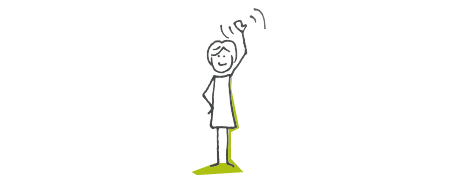
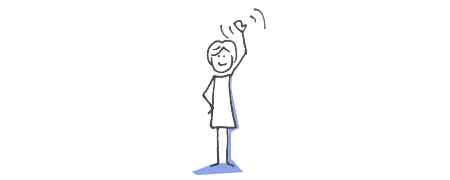
redesign according to project page

Changed region(s): [[0.4044, 0.4444, 0.56, 0.9722]]

diff --git a/src/style.css b/src/style.css
@@ -112,7 +112,7 @@ input, select {
 
 
 body {
-  background-color: #fcfcfc;
+  background-color: rgb(255, 255, 255)
 }
 
 header {
@@ -224,7 +224,7 @@ header nav ul li a {
   font-size: 18px;
   font-weight: 600;
   line-height: 30px;
-  color: #acc111;
+  color: #718de0;
   text-align: center;
   display: block;
   padding-top: 20px;
@@ -271,7 +271,7 @@ header nav ul li a {
   font-family:'Roboto';
   font-size: 20px;
   font-weight: 400;
-  color: #acc111;
+  color: #718de0;
   padding-top: 40px;
   padding-bottom: 30px;
   margin: 0 auto;
@@ -291,7 +291,7 @@ header nav ul li a {
   font-size: 14px;
   font-weight: 200;
   line-height: 20px;
-  color: #acc111;
+  color: #718de0;
   width: 80%;
   margin: 0 auto;
   padding-top: 10px;
@@ -302,7 +302,7 @@ header nav ul li a {
   font-family:'Roboto Condensed';
   font-size: 14px;
   font-weight: 400;
-  color: #acc111;
+  color: #718de0;
   width: 80%;
   margin: 0 auto;
 }
@@ -311,11 +311,11 @@ header nav ul li a {
   margin: 22px 22px 0;
   width: calc(100% - 44px);
   height: 154px;
-  background-color: #acc111;
+  background-color: #718de0;
 }
 
 .index-boxlink-square1 {
-  background-image: url('img/portfolio-01.jpg');
+  background-image: url('img/project thumbnail re.png');
   background-repeat: no-repeat;
   background-position: center;
   background-size: cover;
@@ -323,7 +323,7 @@ header nav ul li a {
 }
 
 .index-boxlink-square1:hover {
-  background-image: url('img/portfolio-01h.jpg');
+  background-image: url('img/project thumbnail re ho.png');
 }
 
 .index-boxlink-rectangle1 {
@@ -528,10 +528,11 @@ header nav ul li a {
 }
 
 .contact p a{
-  color: #acc111;
+  color: #718de0;
   font-family:'Roboto condensed';
-  font-size: 16px;
+  font-size: 18px;
   font-weight: 400;
+  line-height: 28px;
 }
 
 .contact img{
@@ -552,6 +553,11 @@ header nav ul li a {
   .contact p{
     font-size: 18px;
     line-height: 28px;
+  }
+
+  .contact p a{
+    font-size: 20px;
+    line-height: 30px;
   }
 }
 

diff --git a/src/index.html b/src/index.html
@@ -32,7 +32,7 @@
       <div class="wrapper">
         <h2>Why I am into UX and Product Design?</h2>
         <section class="vertical-center2">
-            <img class="why-ux" src="img/why-ux2-18.png" alt="product design">
+            <img class="why-ux" src="img/frontpage-14.png" alt="product design">
           <h3 class="quote">"Technology is nothing. What's important is that you have a faith in people, that they're basically good and smart, and if you give them tools, they'll do wonderful things with them."</h3>  
           <h3 class="quote2">Steve Jobs</h3>
         </section>
